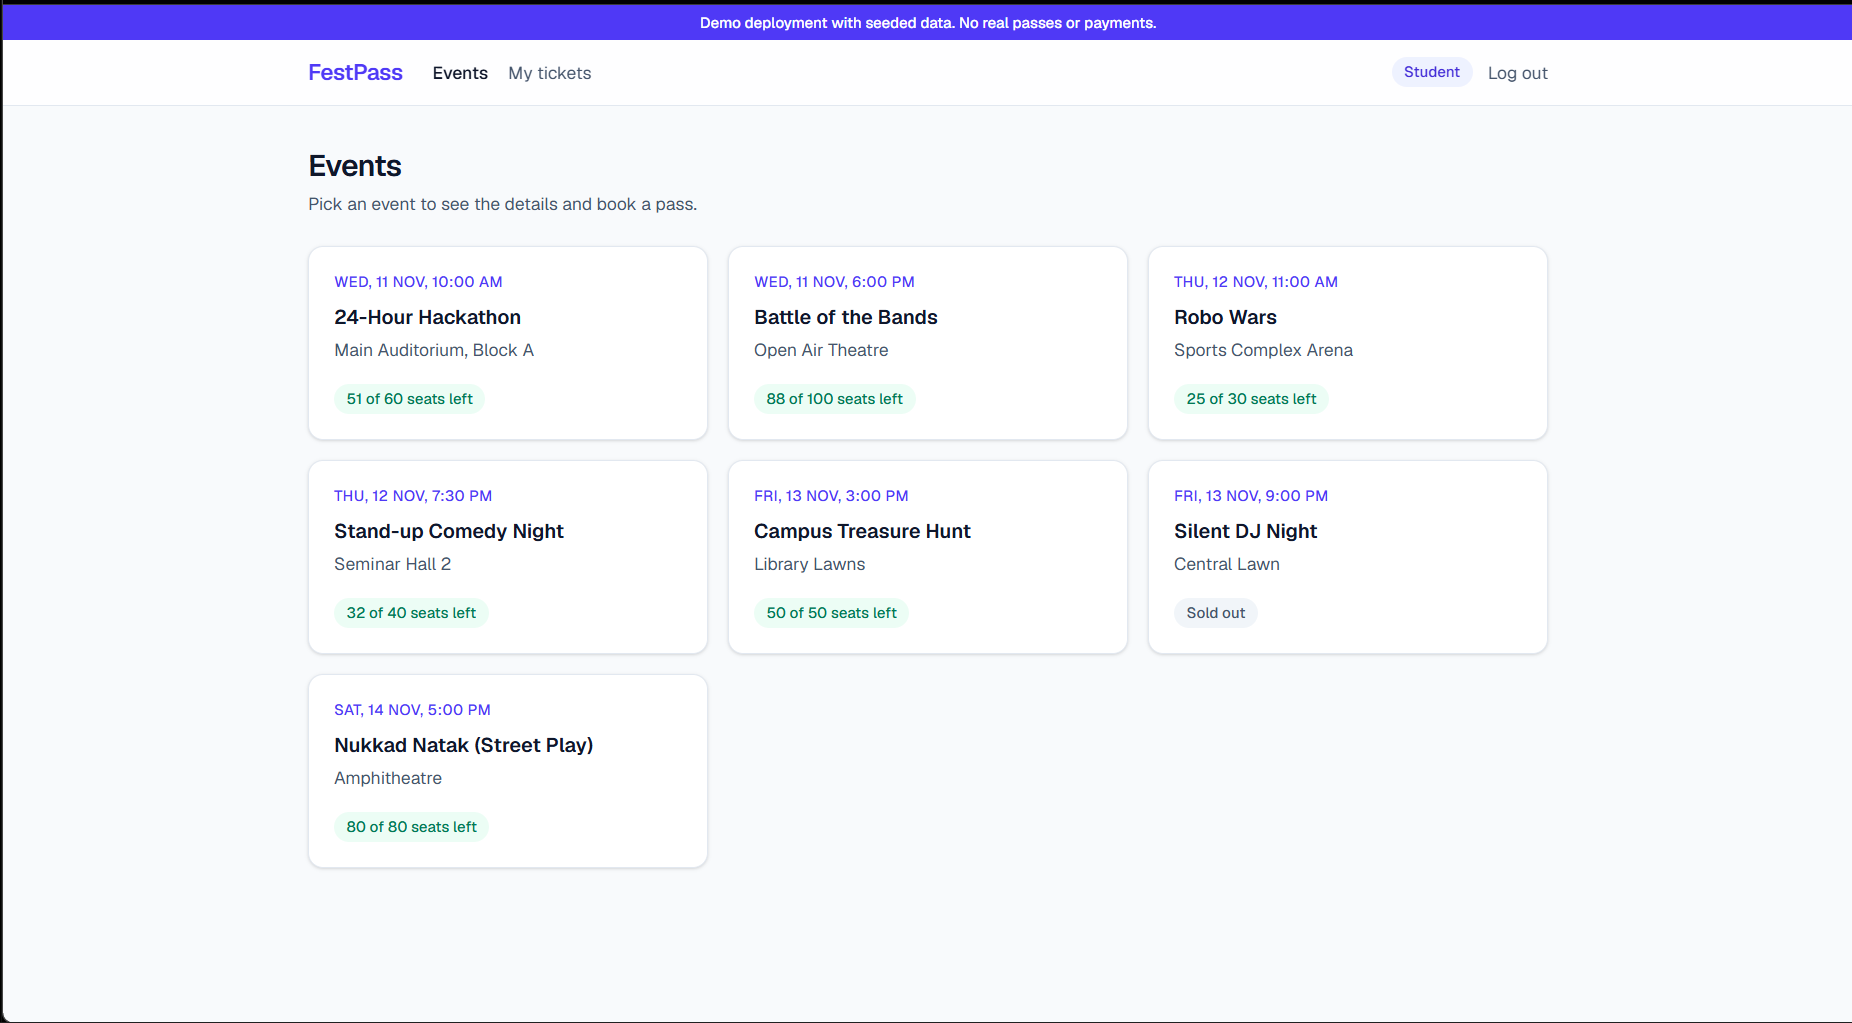
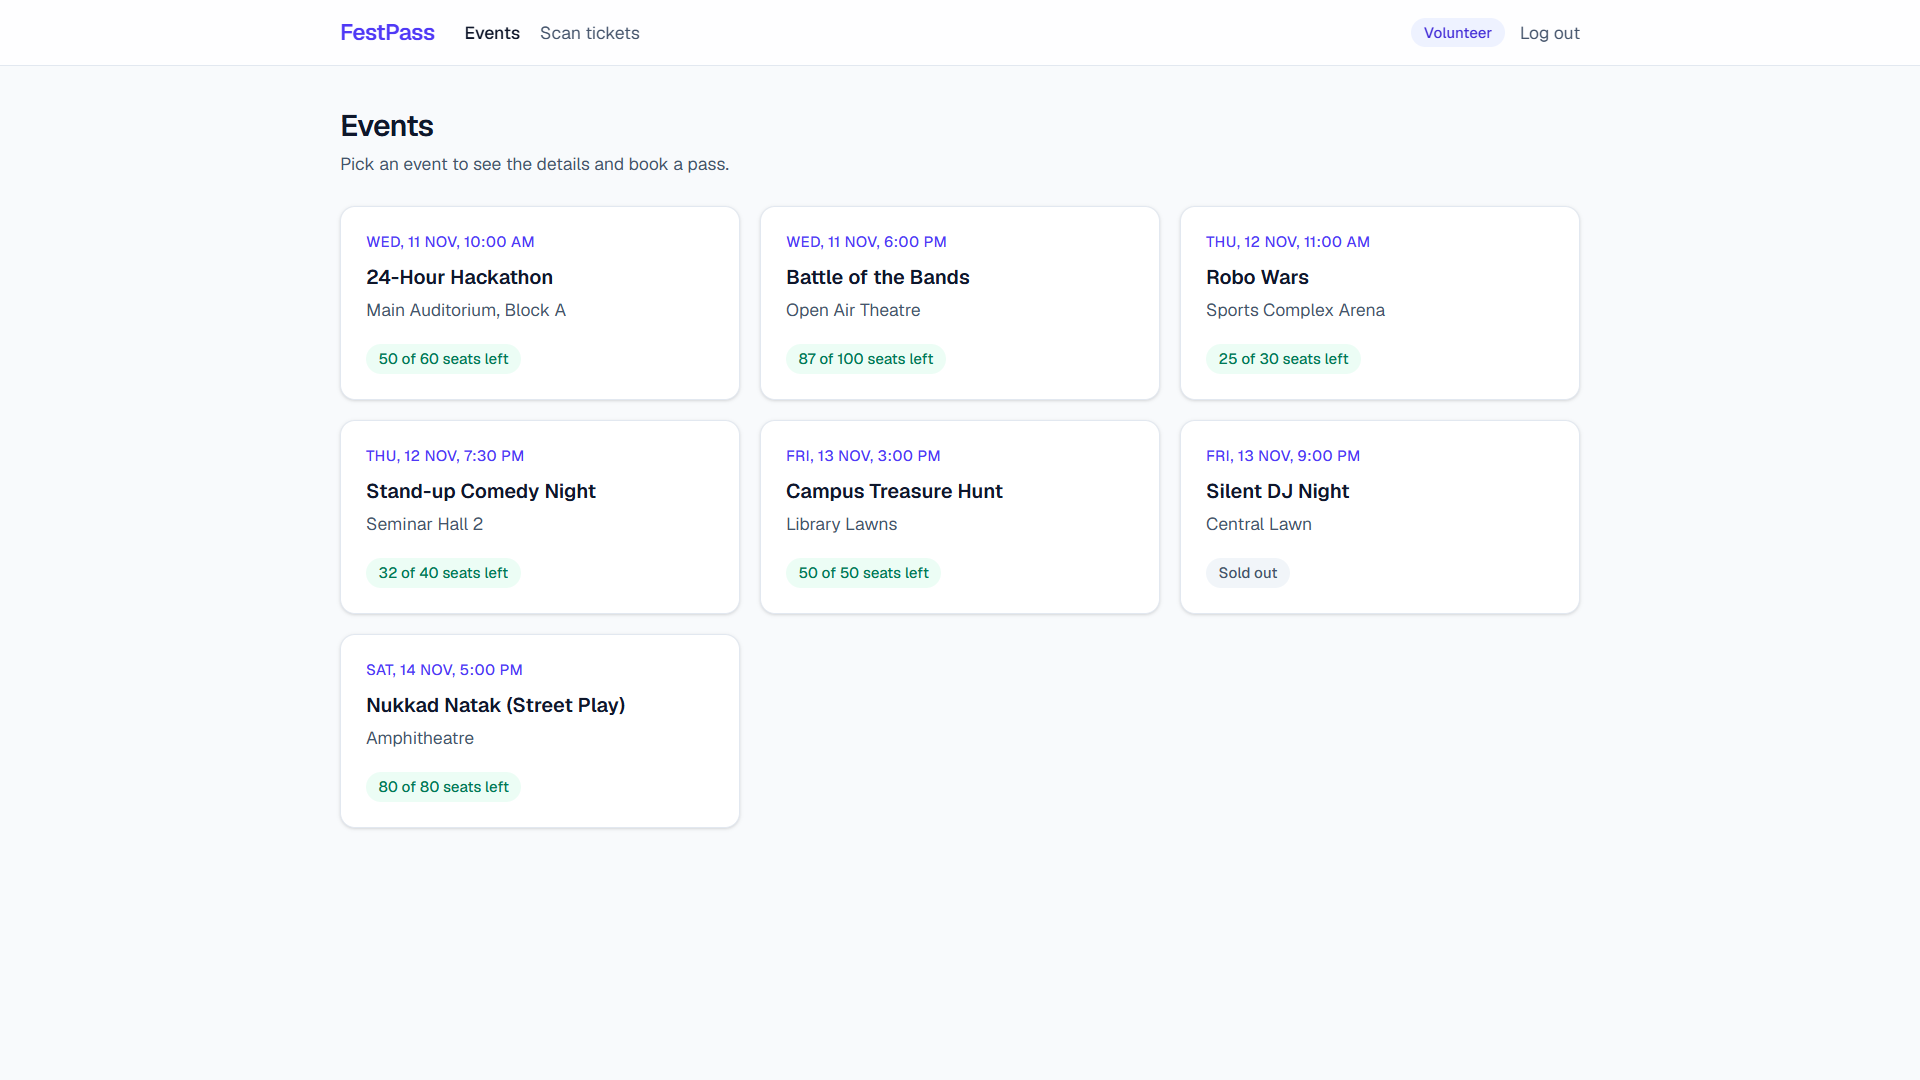
docs: full README (architecture, screenshots, setup, tests), api/.env.example, db:migrate:test

Changed region(s): [[0.0, 0.0, 1.0, 0.8182], [0.4001, 0.2121, 0.5232, 0.6061], [0.6156, 0.2121, 0.7387, 0.6061]]

diff --git a/README.md b/README.md
@@ -5,17 +5,47 @@
 College fest ticketing with QR check-in. Students book seats, get a signed QR ticket by email, and volunteers scan them at the gate. The core guarantee: **the last seat is never sold twice**, even when hundreds of students book at the same moment.
 
 **Live demo:** https://festpass-pi.vercel.app
-_Demo deployment with seeded data (a fake fest and test users, no real money). The API runs on Render's free tier, so the first request after idle can take about a minute to wake up._
+
+_Demo deployment with seeded data: a fake fest ("Resonance 2026") and test users, no real money. The API runs on Render's free tier, so the first request after it has been idle can take about a minute; the site shows a "waking up the server" notice while it does._
 
 ## Demo logins
 
-| Role | Email | Password |
-|---|---|---|
-| Organiser | organiser@festpass.test | organiser123 |
-| Volunteer | volunteer1@festpass.test | volunteer123 |
-| Student | student1@festpass.test | student123 |
+The login page has one-click buttons for each role, or type these in:
 
-Organisers create events and see live attendance, students book and cancel, volunteers scan tickets.
+| Role | Email | Password | What to try |
+|---|---|---|---|
+| Student | student1@festpass.test | student123 | Book an event, open My tickets, cancel |
+| Volunteer | volunteer1@festpass.test | volunteer123 | Open Scan and point the phone camera at a ticket QR |
+| Organiser | organiser@festpass.test | organiser123 | Create an event, open View attendance |
+
+Ticket emails in the demo all go to one inbox (Resend's free tier only delivers to the account owner), so a visitor sees their QR on the My tickets page.
+
+## Screenshots
+
+![Events page](docs/screenshots/events.png)
+
+| QR ticket (phone) | Gate scanner (phone) |
+|---|---|
+| ![QR ticket](docs/screenshots/ticket.png) | ![Scanner](docs/screenshots/scan.png) |
+
+![Live attendance](docs/screenshots/attendance.png)
+
+## Architecture
+
+```mermaid
+flowchart LR
+    B["Browser<br/>(student, volunteer, organiser)"] --> W["Next.js web<br/>Vercel"]
+    W -- "/api/* rewrite<br/>(same-site cookie)" --> A["Fastify API<br/>Render"]
+    A -- "SQL: bookings,<br/>atomic seat update" --> P[("PostgreSQL<br/>Neon")]
+    A -- "queue send-ticket job" --> Q["pg-boss<br/>(jobs stored in Postgres)"]
+    Q --- P
+    Q -- "worker sends QR email" --> R["Resend"]
+    A -- "rate limit check<br/>on booking" --> U[("Upstash Redis")]
+```
+
+- The browser only talks to Vercel. Vercel forwards `/api/*` to the Render API, so the login cookie is first-party (this fixed Safari dropping a cross-site cookie).
+- Booking commits in Postgres first, then queues a `send-ticket` job. A worker in the same API process draws the QR and emails it, retrying 3 times with backoff, so a slow email never slows or breaks booking.
+- Upstash Redis holds the rate-limit counters. If Redis is down, booking still works (the limiter fails open).
 
 ## Features
 
@@ -43,21 +73,107 @@ Postgres locks the event row, so a second request waits and re-checks `seats_lef
 | 2 | 500 | 100 | 400 | 0 | 0 | 11.7 s |
 | 3 | 500 | 100 | 400 | 0 | 0 | 10.3 s |
 
-**0 oversells and 0 errors across 1,500 concurrent requests.** Latency is high because the free instance has a fraction of a CPU and a 10-connection database pool, so 500 simultaneous bookings queue; the test proves correctness, not speed. The test also found a real bug (Render to Neon connections timing out under load), fixed in `api/src/server.ts`. Script: `api/loadtest/book.js`, results: `api/loadtest/results/`, details in `NOTES.md`.
+**0 oversells and 0 errors across 1,500 concurrent requests.** Latency is high because the free instance has a fraction of a CPU and a 10-connection database pool, so 500 simultaneous bookings queue; the test proves correctness, not speed. The test also found a real bug (Render to Neon connections timing out under load), fixed in `api/src/server.ts`. Script: `api/loadtest/book.js`, results: `api/loadtest/results/`, details in [NOTES.md](NOTES.md).
+
+![k6 results](docs/screenshots/k6.png)
 
 ## Stack
 
-Next.js + TypeScript (Vercel) · Node.js + Fastify (Render) · PostgreSQL on Neon with Drizzle ORM · pg-boss job queue · Upstash Redis · Resend email · qrcode and html5-qrcode · k6
+| Part | Tech |
+|---|---|
+| Web | Next.js 16, TypeScript, Tailwind CSS (Vercel) |
+| API | Node.js, Fastify 5, Zod, JWT in an httpOnly cookie (Render) |
+| Database | PostgreSQL on Neon, Drizzle ORM and migrations |
+| Background jobs | pg-boss (queue stored in Postgres) |
+| Rate limiting | Upstash Redis, sliding window |
+| Email and QR | Resend, qrcode (draw), html5-qrcode (scan) |
+| Testing | Vitest + Fastify inject, k6, GitHub Actions |
+
+## Project structure
+
+```
+api/              Fastify API
+  src/routes/     auth, events, booking, me (tickets, cancel), checkin, attendance
+  src/db/         Drizzle schema, client, seed
+  drizzle/        SQL migrations
+  test/           Vitest integration tests
+  loadtest/       k6 script, load-test user seeding, saved results
+web/              Next.js app (src/app = pages, src/components, src/lib/api.ts)
+docs/screenshots/ README images
+NOTES.md          design decisions and every measured number
+```
 
 ## Run locally
 
-Needs Node 22.12+ and pnpm.
+You need **Node 22.12 or newer**, **pnpm** (`npm install -g pnpm`), and a **PostgreSQL 16** database. Email and Redis are optional.
 
-1. `pnpm install`
-2. Copy `.env.example` to `api/.env` and fill in the Neon, Upstash and Resend values plus any two random strings for `JWT_SECRET` and `QR_SECRET`
-3. `pnpm --filter api db:migrate`
-4. `pnpm --filter api db:seed`
-5. `pnpm --filter api dev` (API on port 4000)
-6. Create `web/.env.local` with `NEXT_PUBLIC_API_URL=http://localhost:4000`, then `pnpm --filter web dev` (web on port 3000)
+**1. Clone and install**
+
+```
+git clone https://github.com/project-devo/festpass.git
+cd festpass
+pnpm install
+```
+
+**2. Get a database.** Either create a free project on [Neon](https://neon.tech) and copy its connection string, or run Postgres in Docker:
+
+```
+docker run -d --name festpass-db -e POSTGRES_PASSWORD=postgres -e POSTGRES_DB=festpass -p 5432:5432 postgres:16
+```
+
+**3. Create `api/.env`** by copying `api/.env.example`. The defaults already match the Docker database above. For Neon, replace `DATABASE_URL` with your Neon string. Change `JWT_SECRET` and `QR_SECRET` to any two long random strings.
+
+| Variable | Needed? | What it is |
+|---|---|---|
+| `DATABASE_URL` | Yes | Postgres connection string |
+| `JWT_SECRET`, `QR_SECRET` | Yes | Secrets for login tokens and QR signatures |
+| `RESEND_API_KEY` | Yes, any value | A real [Resend](https://resend.com) key sends ticket emails; a placeholder lets the API start (email jobs fail and are logged, booking still works) |
+| `TICKET_EMAIL_TO` | No | Send every ticket to this address (Resend free only delivers to your own email) |
+| `RATE_LIMIT` | No | `off` skips rate limiting; remove it and set the two `UPSTASH_REDIS_REST_*` values to turn it on |
+| `WEB_ORIGIN` | No | Web URL allowed by CORS, default `http://localhost:3000` |
+
+**4. Create the tables and the demo data**
+
+```
+pnpm --filter api db:migrate
+```
+
+```
+pnpm --filter api db:seed
+```
+
+**5. Start the API** (port 4000)
+
+```
+pnpm --filter api dev
+```
+
+**6. Start the web app** in a second terminal (port 3000), then open http://localhost:3000 and log in with a demo account.
+
+```
+pnpm --filter web dev
+```
+
+The web app calls `http://localhost:4000` by default, so it needs no env file locally.
+
+## Tests
+
+The 14 integration tests wipe every table, so they need a second, empty database. With Docker, create it inside the same container:
+
+```
+docker exec festpass-db createdb -U postgres festpass_test
+```
+
+(With Neon, create a branch or a second database instead.) Then create `api/.env.test` with four lines: `DATABASE_URL` pointing at that test database (never the one in `api/.env`), `JWT_SECRET`, `QR_SECRET`, and `ALLOW_DB_RESET=yes`. Create its tables once, then run the tests:
+
+```
+pnpm --filter api db:migrate:test
+```
+
+```
+pnpm test
+```
+
+The tests mock email and Redis, so they need no Resend or Upstash keys.
 
 Design decisions and every measured number are in [NOTES.md](NOTES.md).
